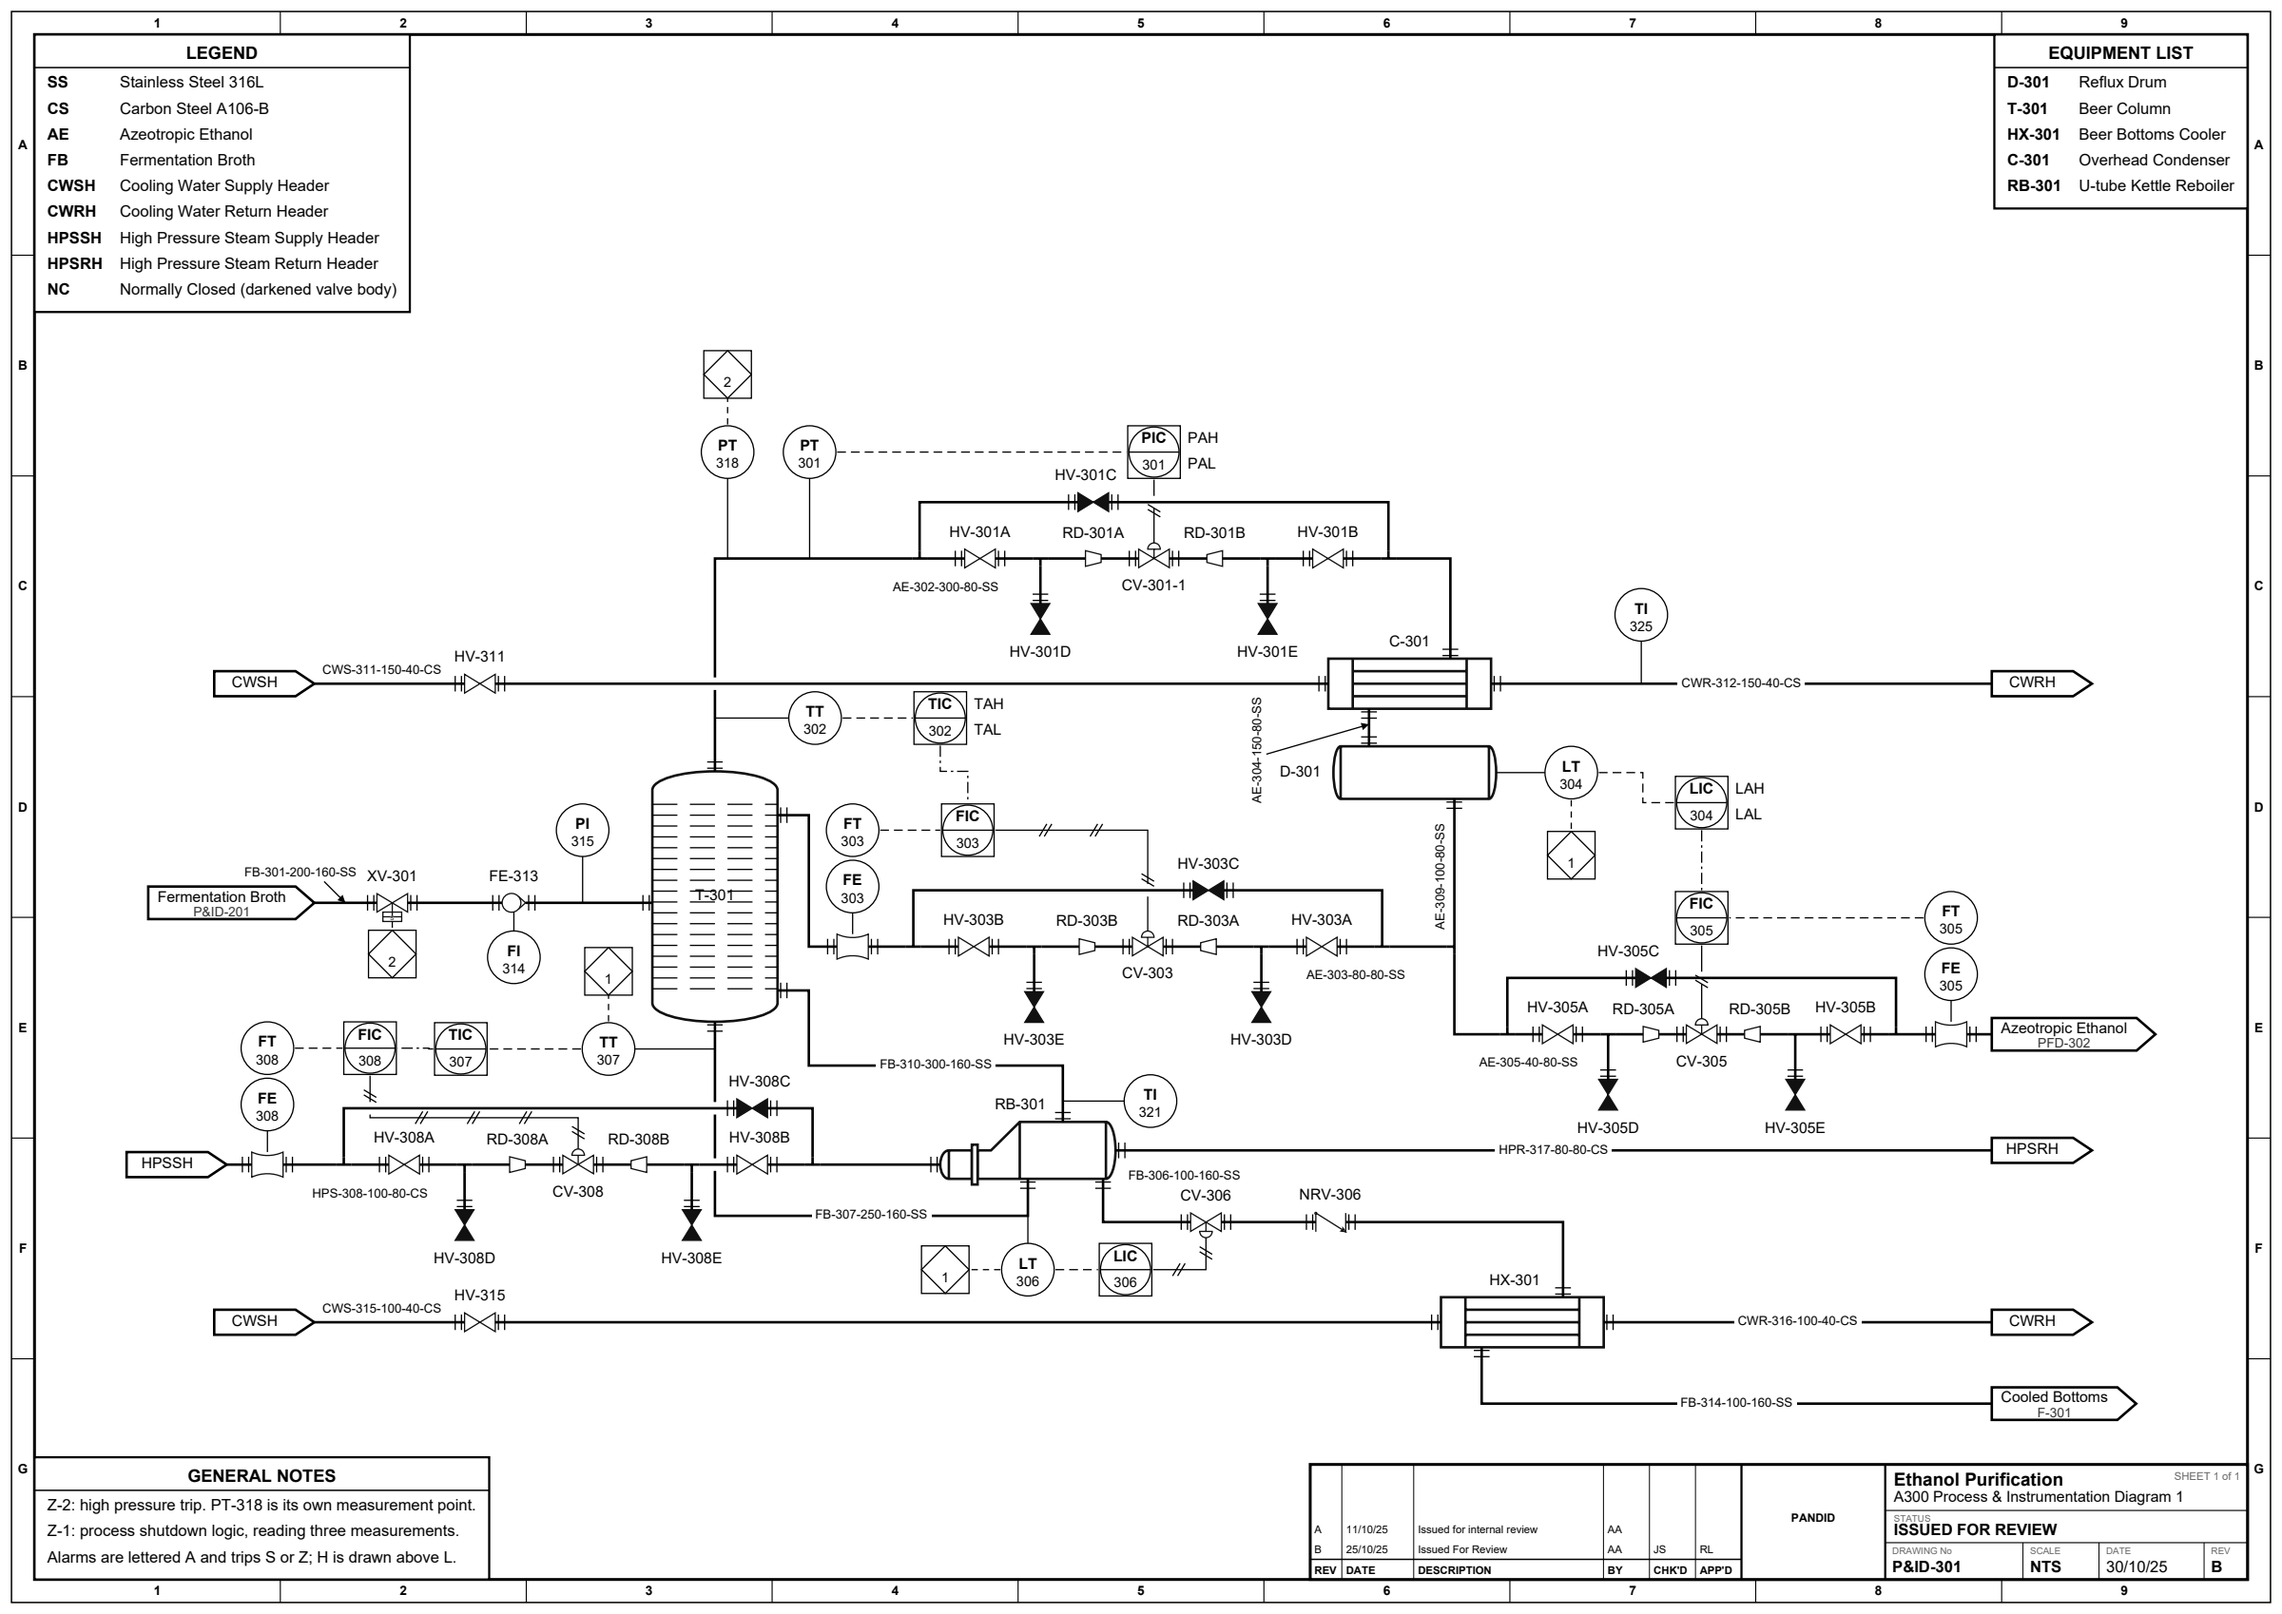
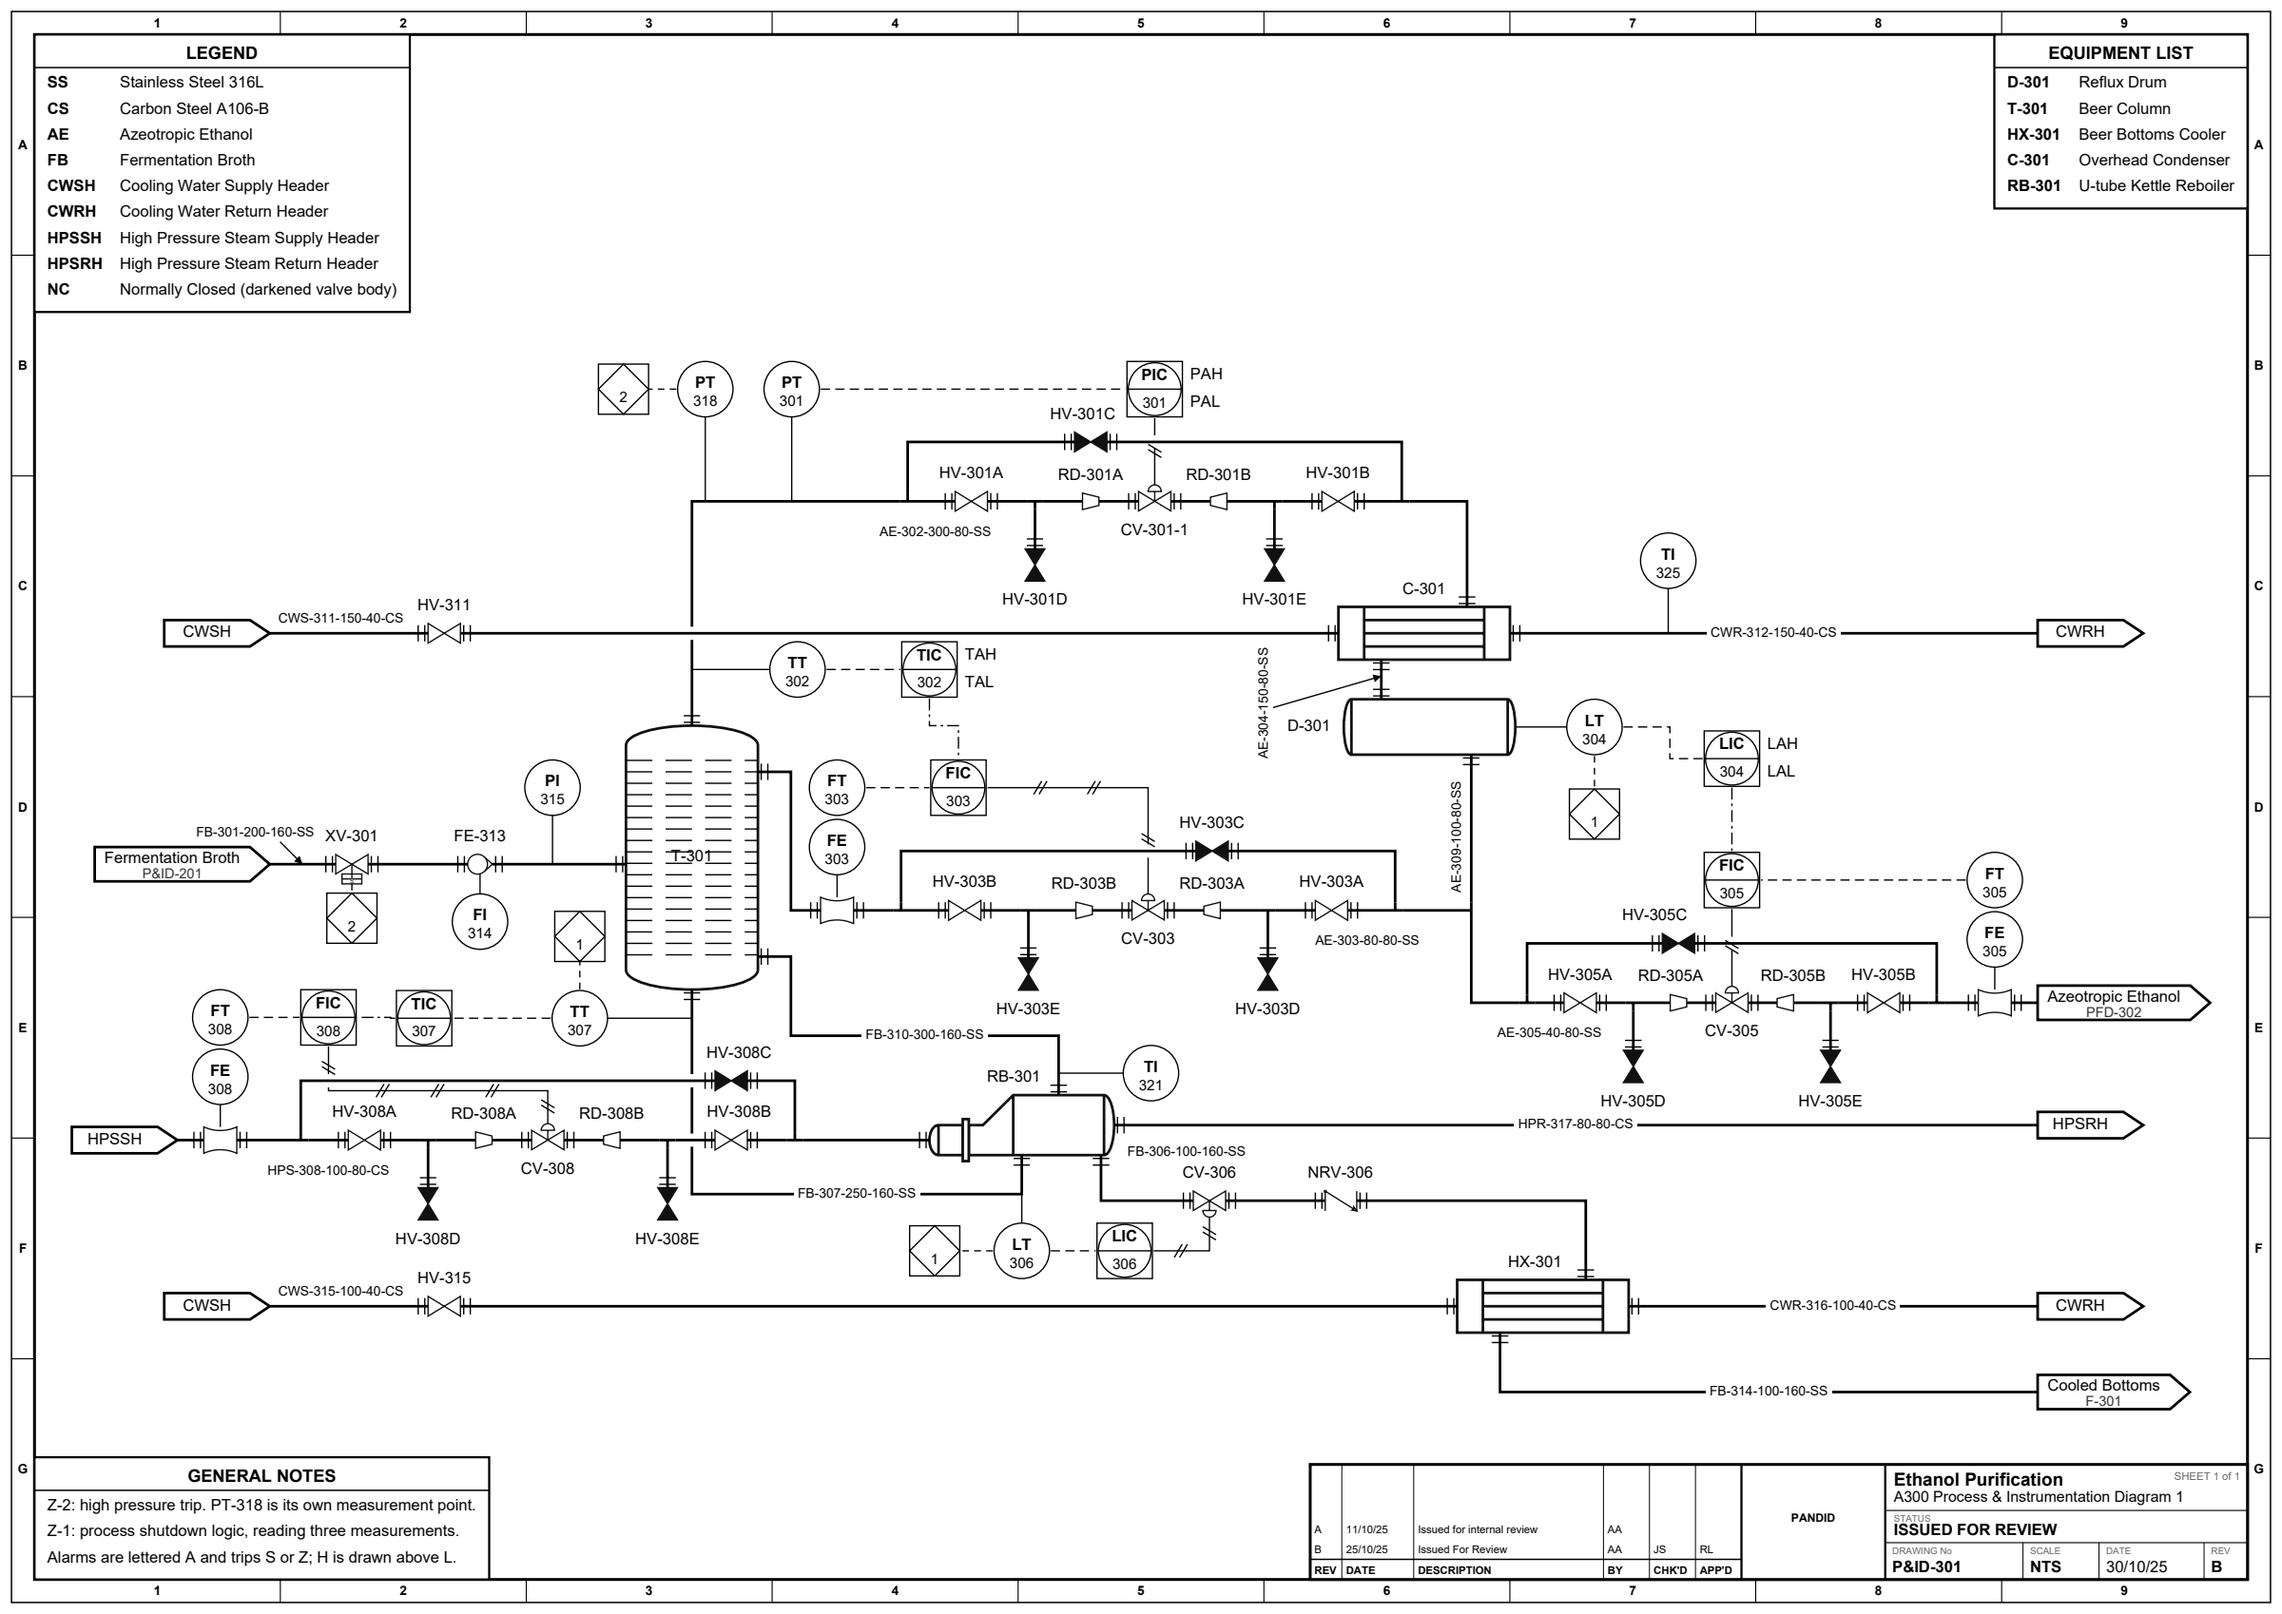
docs(examples): hang Z-2 beside PT-318 so it stays on the sheet
The trip square sat above PT-318, past the sheet's top edge, which validate() now reports.

Refs: #794

diff --git a/examples/10_ethanol_pid.py b/examples/10_ethanol_pid.py
@@ -249,7 +249,7 @@ def main():
     # --- The high pressure trip, on a measurement of its own ----------
     pt318 = fs.add_instrument("PT", 318, sensing=vapour, at=0.55,
                               offset=overhead_y - balloon_row_y)
-    fs.add_instrument("Z", 2, sensing=pt318, face="N", offset=40, variant="sis")
+    fs.add_instrument("Z", 2, sensing=pt318, face="W", offset=40, variant="sis")
 
     # --- Loops 302/303: tower top temperature onto reflux flow -------
     # Tapped low on the riser, below the header that crosses it.
